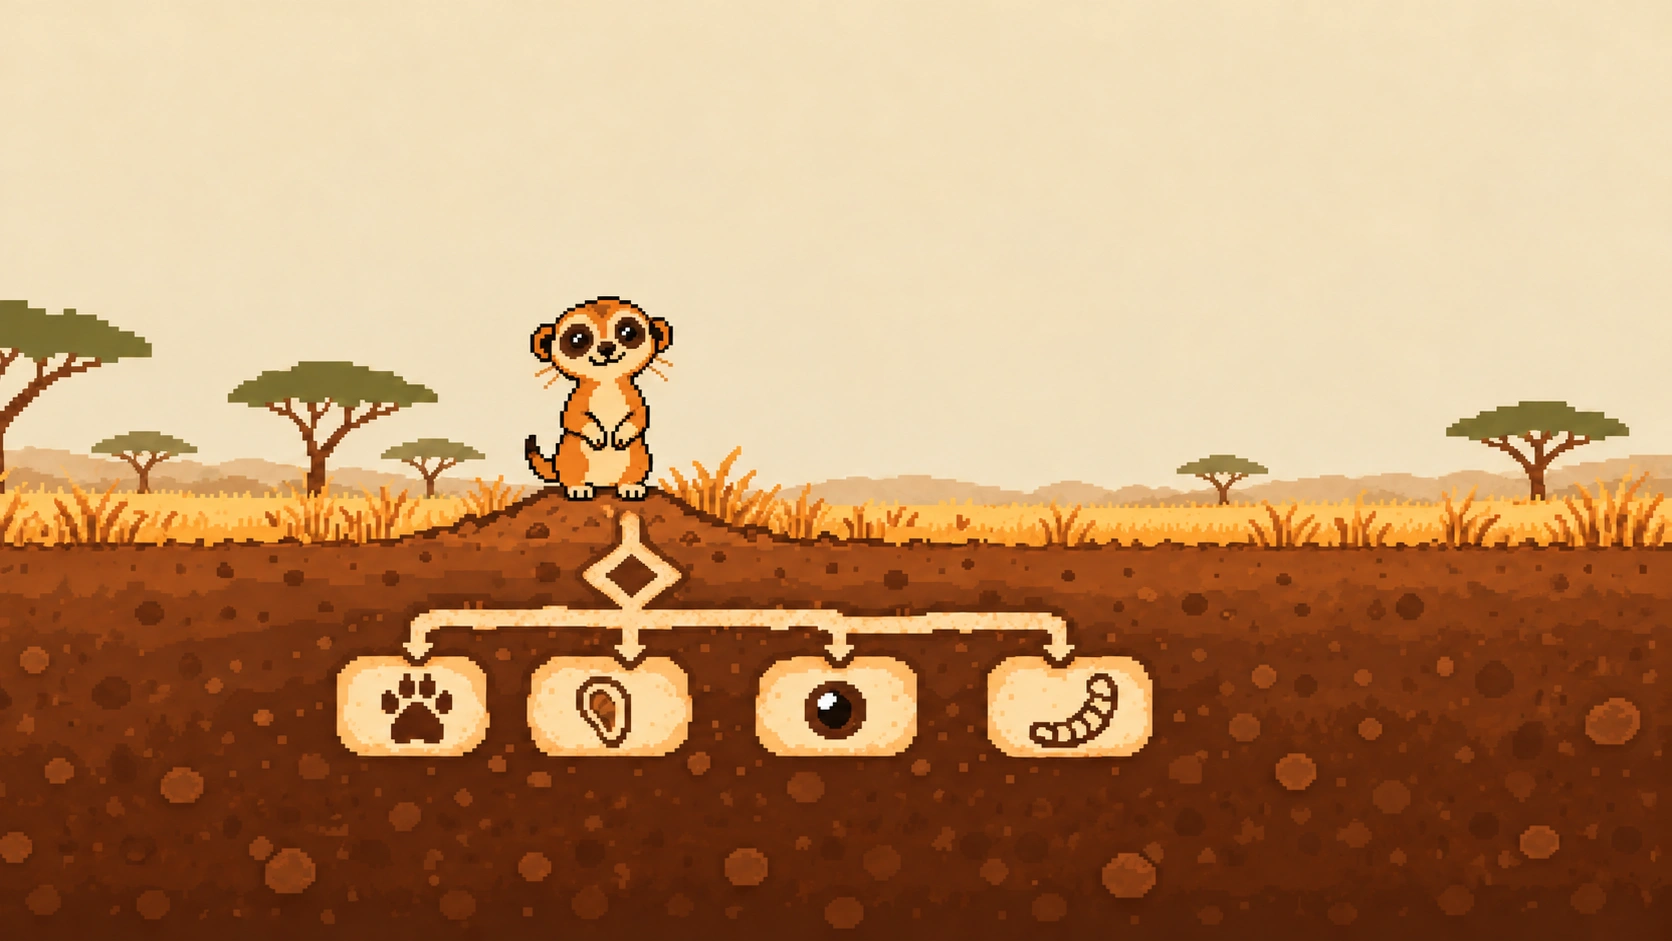
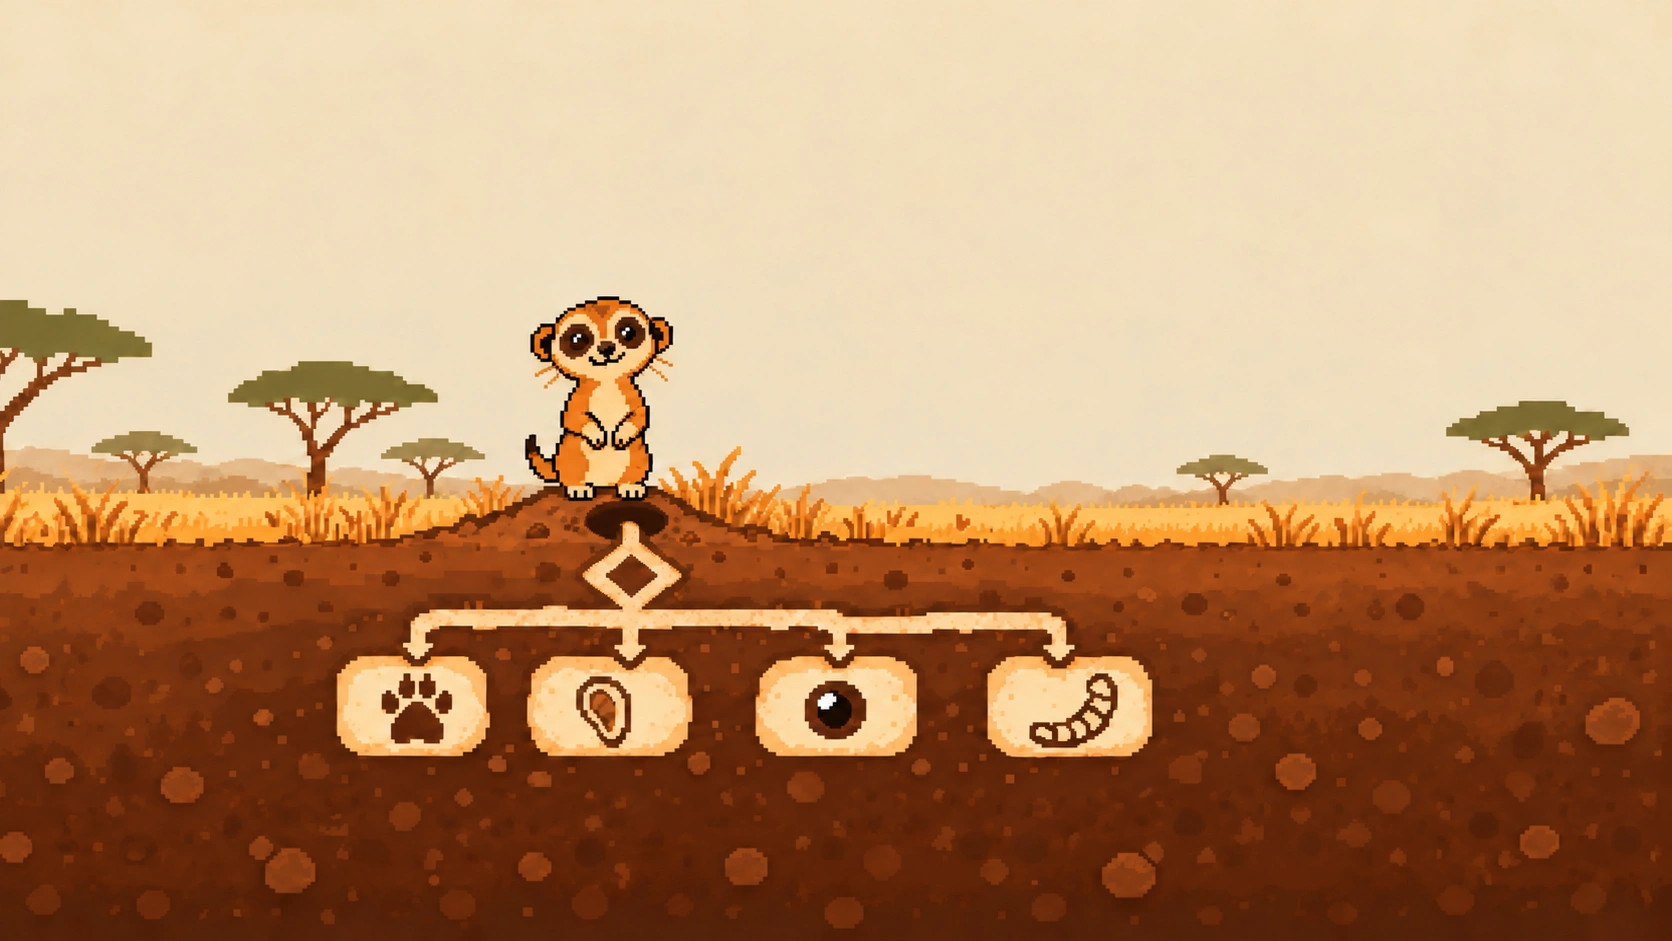
site: a real burrow entrance at the meerkat's feet; playground credits line dropped, mermaid-ascii's license shipped beside its build

diff --git a/site/index.html b/site/index.html
@@ -95,7 +95,6 @@
     </div>
     </div>
     </div>
-    <p class="credits">Everything runs in your browser; nothing is sent anywhere. mermaid-ascii and beautiful-mermaid are MIT-licensed projects by their own authors, run here unmodified: each uses its default settings, and mermaid-ascii also gets the width limit.</p>
   </div>
 </section>
 <footer class="foot">
